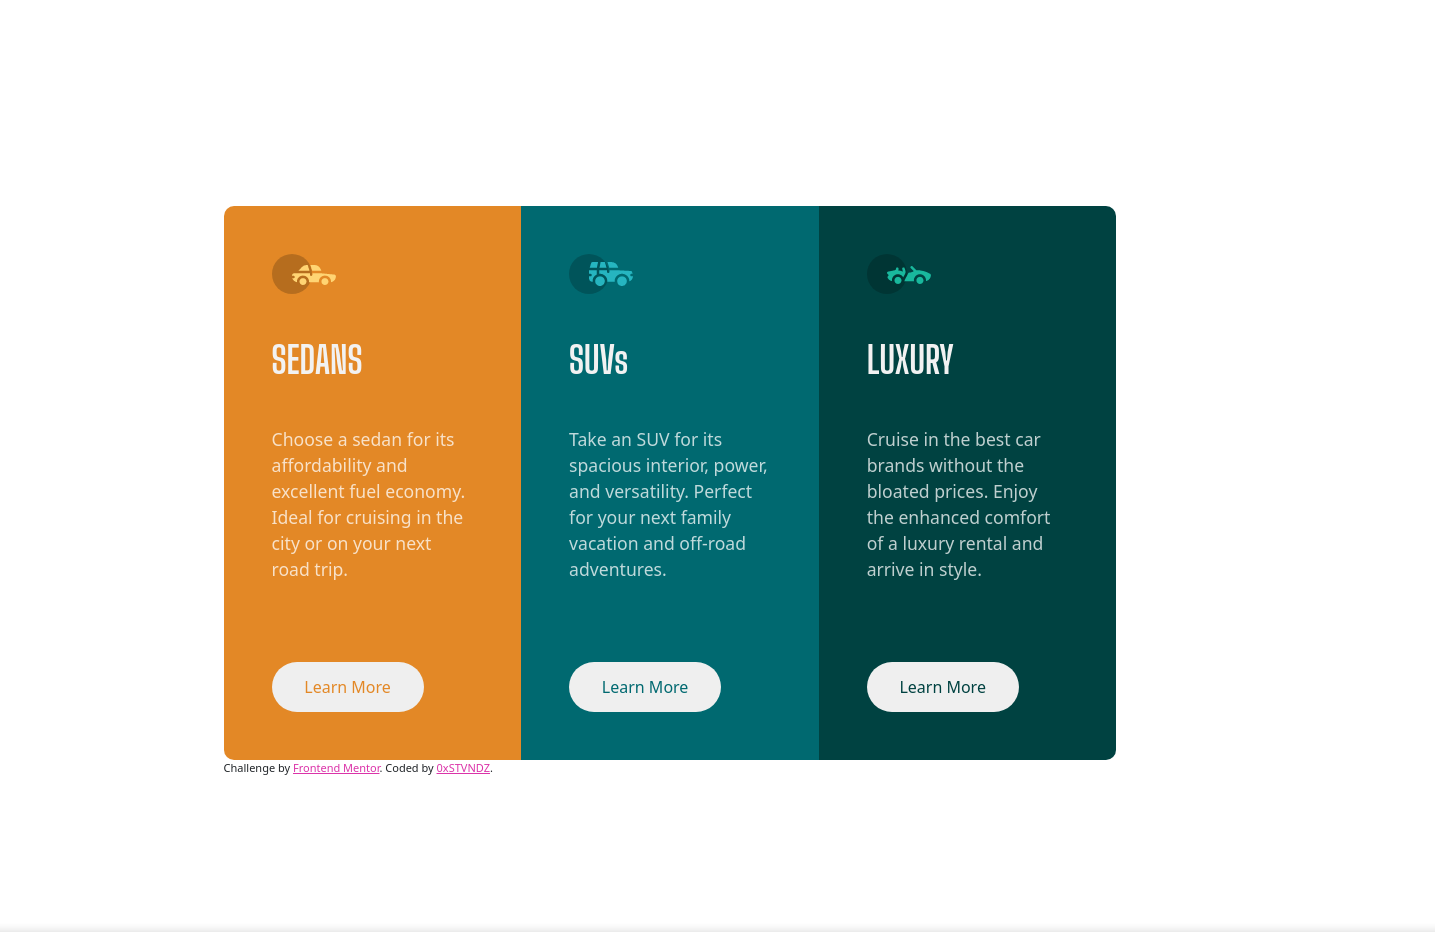
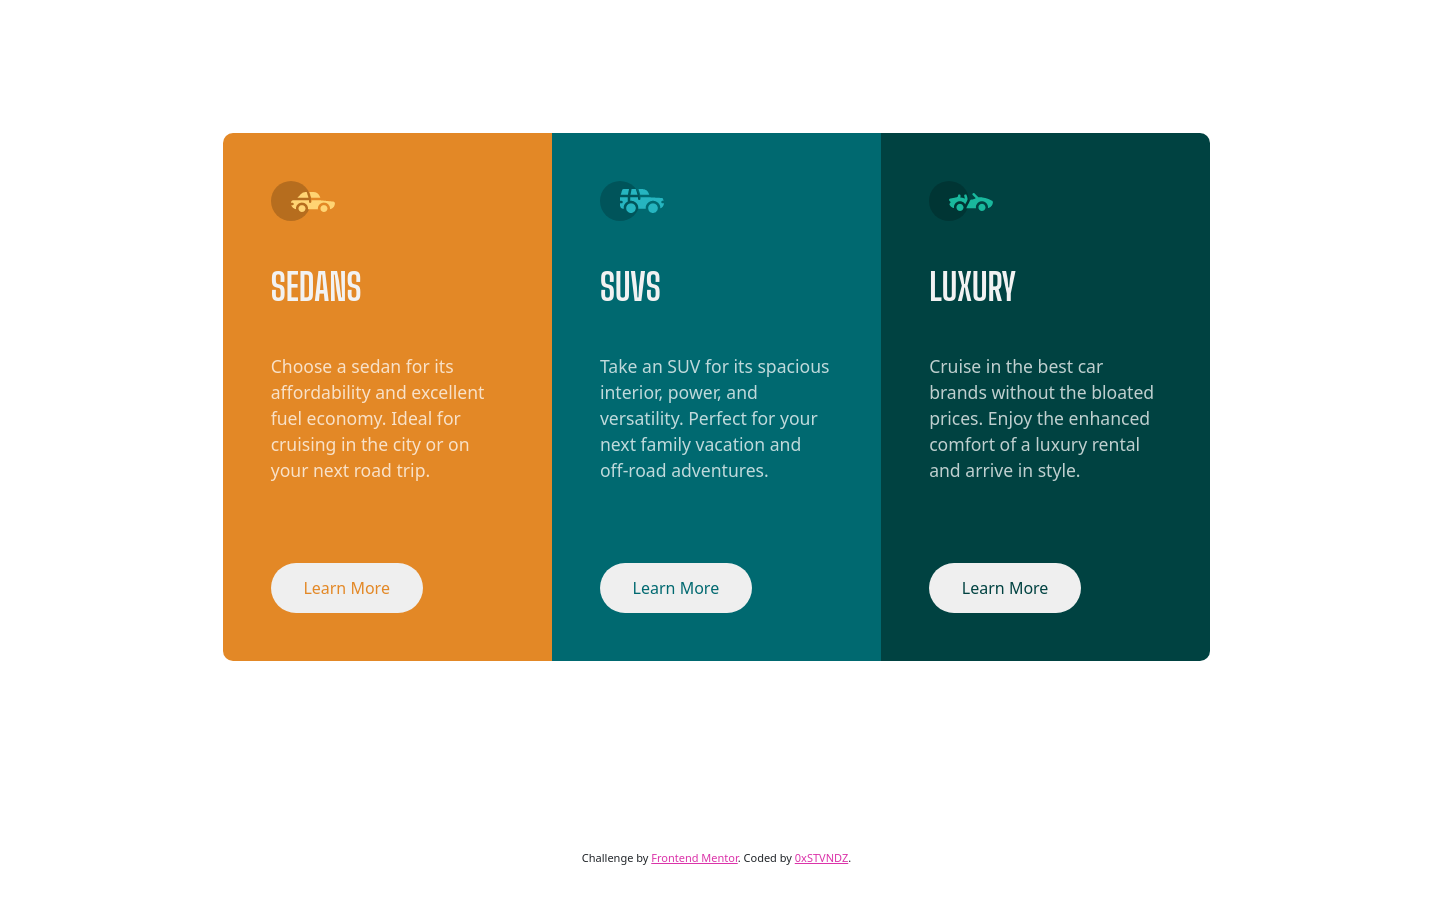
new screenshot and minor css change

Changed region(s): [[0.1537, 0.1221, 0.8609, 0.855], [0.3997, 0.916, 0.5842, 0.9466], [0.1845, 0.2748, 0.246, 0.3359]]

diff --git a/css/styles.css b/css/styles.css
@@ -148,7 +148,7 @@ button a{
         /*width: 30%;*/
         flex-basis: 100%;
         display: flex;
-        /*flex-wrap: wrap;*/
+        flex-wrap: wrap;
     }
 
     .car img{
